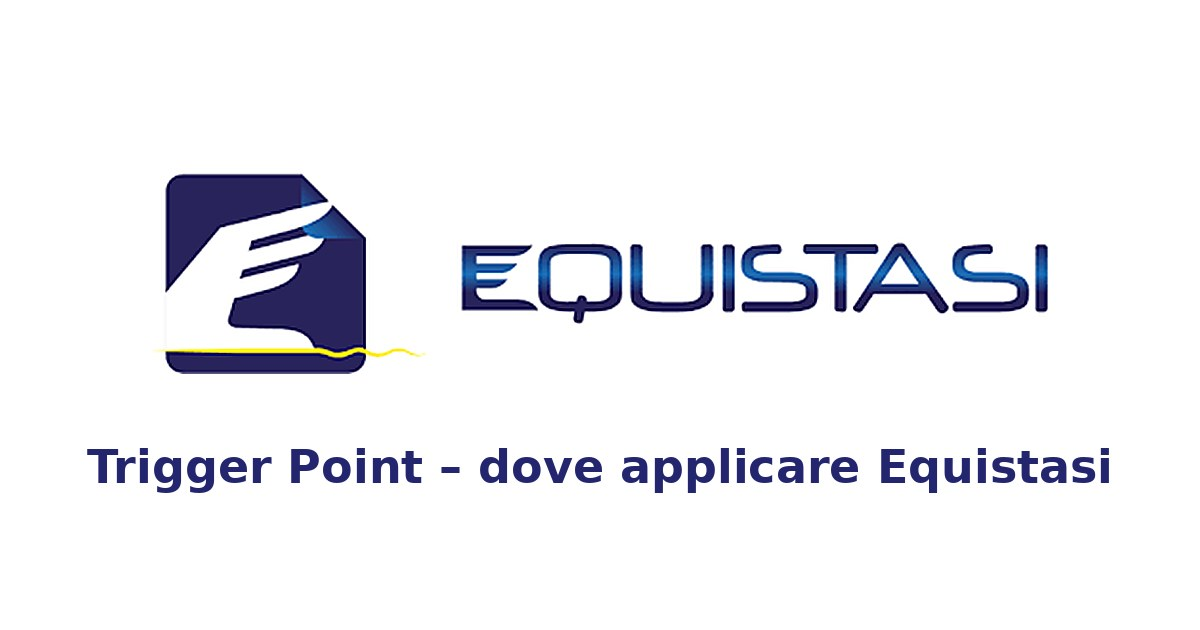
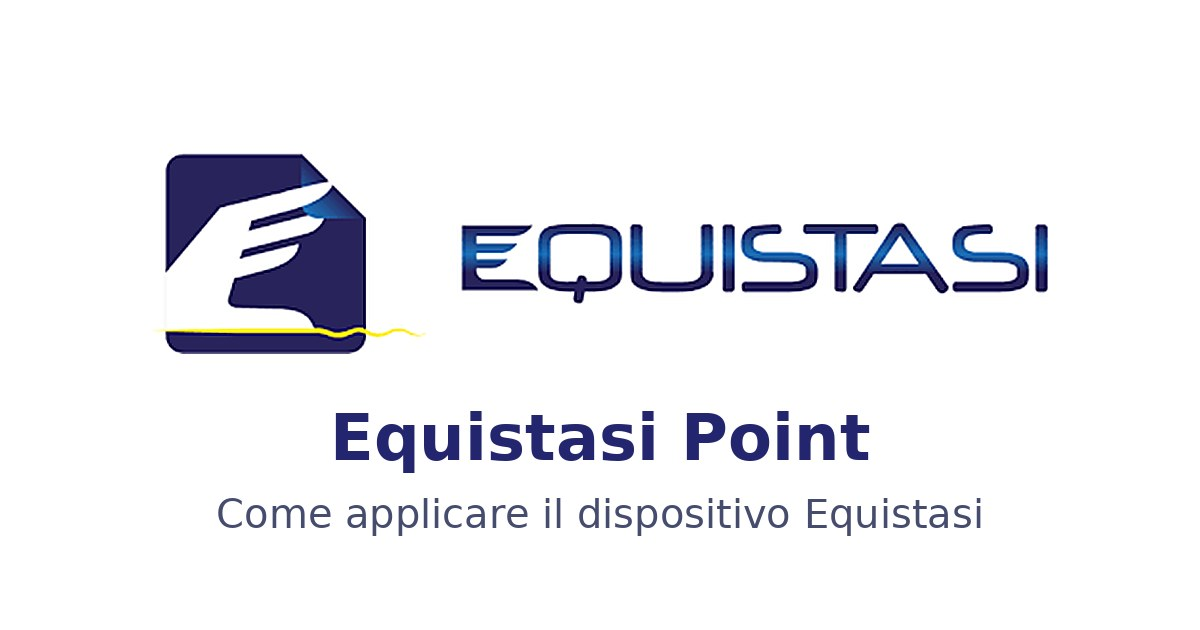
Rename the app to 'Equistasi Point – Come applicare il dispositivo Equistasi'
Claude-Session: https://claude.ai/code/session_01QAocTE2r1HCBYJM3SbD15E

Changed region(s): [[0.0617, 0.6333, 0.925, 0.8444], [0.37, 0.3317, 0.8942, 0.5127], [0.1233, 0.2413, 0.37, 0.6032]]

diff --git a/index.html b/index.html
@@ -3,7 +3,7 @@
 <head>
   <meta charset="utf-8" />
   <meta name="viewport" content="width=device-width,initial-scale=1,viewport-fit=cover" />
-  <title>Equistasi Trigger Point</title>
+  <title>Equistasi Point – Come applicare il dispositivo Equistasi</title>
   <meta name="description" content="Mappa scientifica dei trigger point: scopri dove applicare il dispositivo Equistasi in base al tuo dolore." />
   <meta name="theme-color" content="#23266f" />
   <link rel="manifest" href="manifest.webmanifest" />
@@ -11,7 +11,7 @@
   <link rel="apple-touch-icon" href="img/apple-touch-icon.png" />
   <meta property="og:type" content="website" />
   <meta property="og:site_name" content="Equistasi" />
-  <meta property="og:title" content="Equistasi Trigger Point" />
+  <meta property="og:title" content="Equistasi Point – Come applicare il dispositivo Equistasi" />
   <meta property="og:description" content="Mappa scientifica dei trigger point: scopri dove applicare il dispositivo Equistasi in base al tuo dolore." />
   <meta property="og:url" content="https://milenaba71.github.io/equistasipoint/" />
   <meta property="og:image" content="https://milenaba71.github.io/equistasipoint/img/og-image.jpg" />
@@ -19,8 +19,8 @@
   <meta property="og:image:height" content="630" />
   <meta name="twitter:card" content="summary_large_image" />
   <meta name="apple-mobile-web-app-capable" content="yes" />
-  <meta name="apple-mobile-web-app-title" content="Equistasi TP" />
-  <link rel="stylesheet" href="css/style.css?v=16" />
+  <meta name="apple-mobile-web-app-title" content="Equistasi Point" />
+  <link rel="stylesheet" href="css/style.css?v=17" />
 </head>
 <body>
   <!-- Definizioni condivise dalle figure (pattern della zona secondaria) -->
@@ -46,7 +46,7 @@
     </button>
     <a href="#/" class="brand" aria-label="Home">
       <img src="img/logo.png" alt="Equistasi" />
-      <span>Trigger Point</span>
+      <span>Point</span>
     </a>
     <a href="#/video" class="icon-btn" aria-label="Video tutorial">
       <svg viewBox="0 0 24 24" width="22" height="22"><rect x="3" y="5" width="18" height="14" rx="3" fill="none" stroke="currentColor" stroke-width="2"/><path d="M10 9v6l5-3z" fill="currentColor"/></svg>
@@ -113,9 +113,9 @@
     </div>
   </div>
 
-  <script src="js/config.js?v=16"></script>
-  <script src="js/body.js?v=16"></script>
-  <script src="js/data.js?v=16"></script>
-  <script src="js/app.js?v=16"></script>
+  <script src="js/config.js?v=17"></script>
+  <script src="js/body.js?v=17"></script>
+  <script src="js/data.js?v=17"></script>
+  <script src="js/app.js?v=17"></script>
 </body>
 </html>

diff --git a/sw.js b/sw.js
@@ -1,5 +1,5 @@
 // Cache per l'uso offline. Aumenta VERSION a ogni rilascio.
-const VERSION = 'tp-v16';
+const VERSION = 'tp-v17';
 const FILES = [
   './', 'index.html', 'css/style.css', 'js/config.js', 'js/body.js', 'js/data.js', 'js/app.js',
   'img/logo.png', 'img/dispositivo.jpg', 'img/icon-192.png', 'img/icon-512.png', 'manifest.webmanifest',
